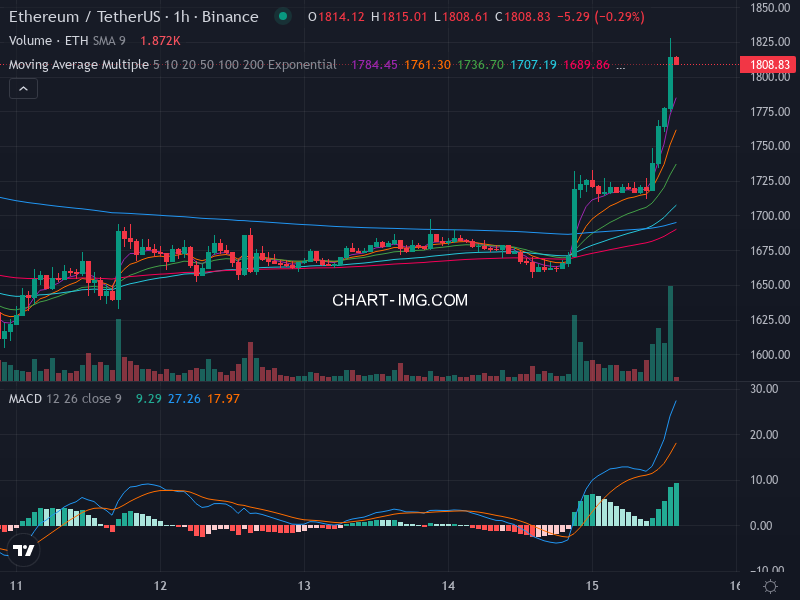
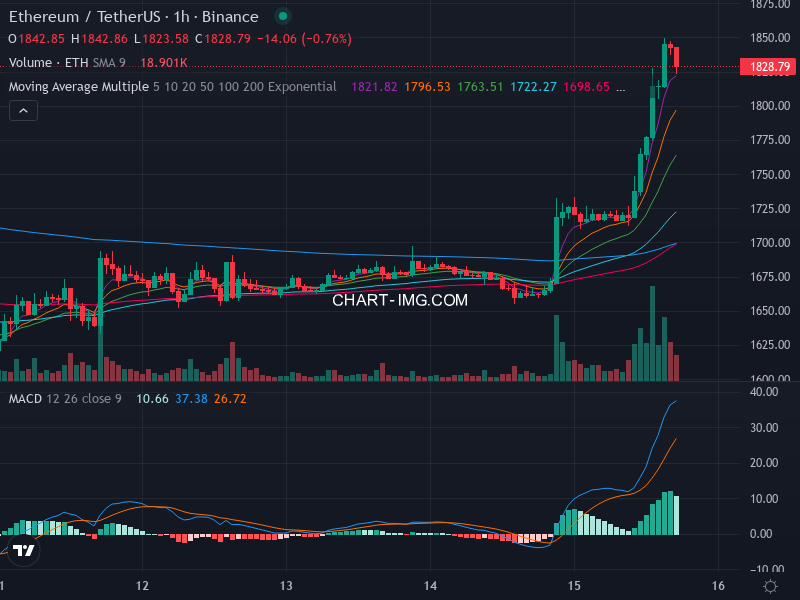
Update chart and timestamp

diff --git a/README.md b/README.md
@@ -5,7 +5,7 @@
 
 ## 最新技術分析圖表 (Latest Analysis)
 ![Latest Chart](latest_chart.png)  
-*Last Analysis: 2026-06-15 14:02:59 UTC*
+*Last Analysis: 2026-06-15 17:38:09 UTC*
 
 ## 主要功能
 - **自動繪圖**: 整合 `chart-img.com` API 繪製包含 EMA 與 MACD 指標的專業線圖（深色主題）。